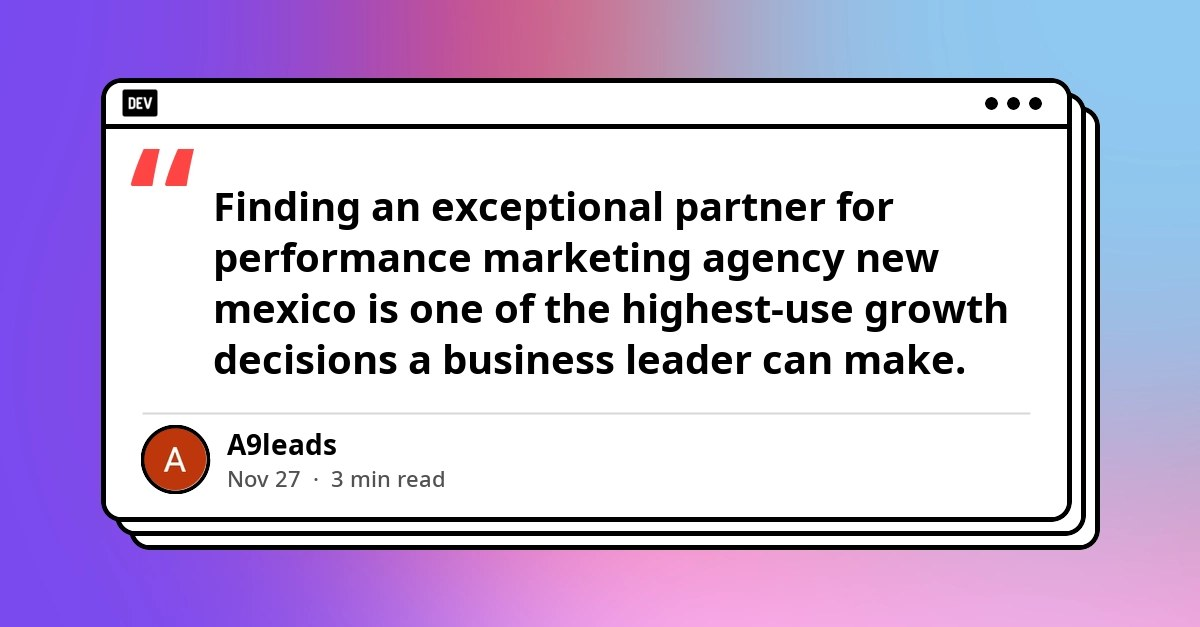
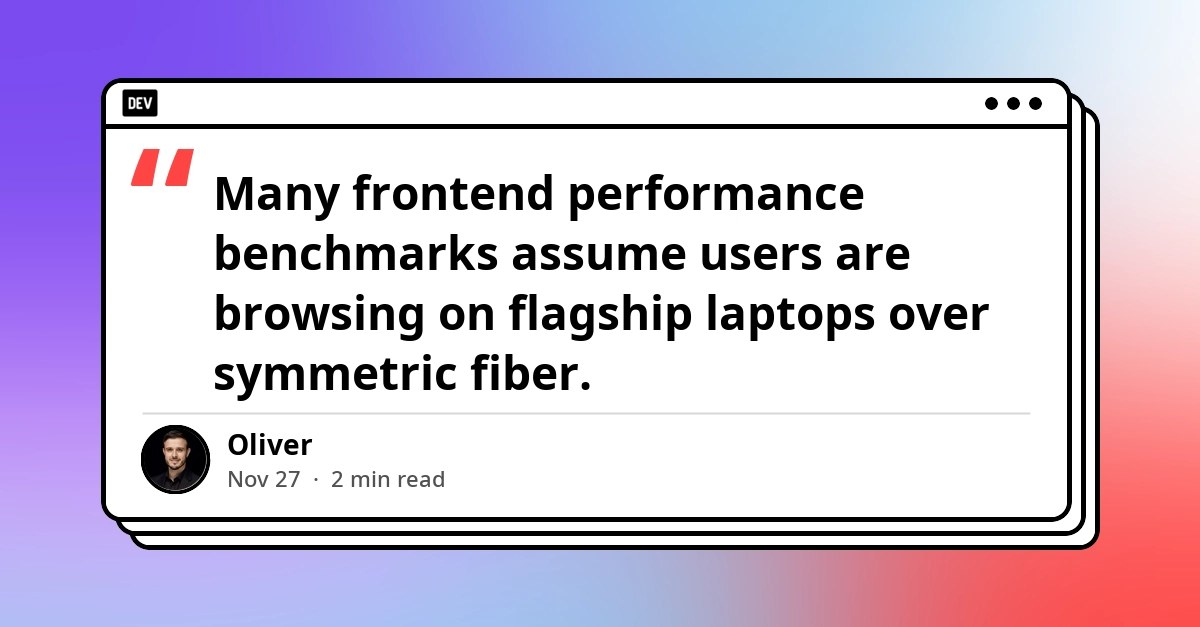
chore: generate LinkedIn draft

diff --git a/drafts/linkedin-post-2026-11-27.md b/drafts/linkedin-post-2026-11-27.md
@@ -2,26 +2,29 @@
 
 > One-topic daily draft. Verify the article, edit the opinion to match your own experience, and check image rights before publishing.
 
-**Niche:** Frontend Development
-**Topic:** Performance Marketing Agency New Mexico: How Analytix9 Engineers Profitable Revenue Scale
-**Published:** 2026-11-27T05:53:18+00:00
-**Source:** DEV — Web Development
-**Article:** https://dev.to/a9leads_1f0037dca685ef4af/performance-marketing-agency-new-mexico-how-analytix9-engineers-profitable-revenue-scale-2091
+**Niche:** Modern CSS & Styling
+**Topic:** Designing Accessible, Low-Bandwidth Search UIs in TypeScript and Modern CSS
+**Published:** 2026-11-27T09:40:59+00:00
+**Source:** DEV — CSS
+**Article:** https://dev.to/oliver9870/designing-accessible-low-bandwidth-search-uis-in-typescript-and-modern-css-411a
 
 ## Suggested post
 
-Performance Marketing Agency New Mexico: How Analytix9 Engineers Profitable Revenue Scale
+Designing Accessible, Low-Bandwidth Search UIs in TypeScript and Modern CSS
 
-Performance Marketing Agency New Mexico: How Analytix9 Engineers Profitable Revenue Scale Finding an exceptional partner for performance marketing agency new mexico is one of the highest-use growth decisions a business leader can make. Yet for most CEOs, CMOs, and e-commerce directors, past experiences with digital marketing agencies have been frustrating: pretty monthly PDF reports, rising costs per click, and an endless stream of excuses about "market saturation." At Analytix9 , we operate under a completely different standard. We don't view paid search as an ad-buying exercise—we run it as an engineering discipline where every dollar invested must directly produce measurable revenue, pipeline value, and gross profit. Why Most Campaigns Struggle with Performance Marketing Agency New Mexico When our senior media buyers conduct a diagnostic audit of accounts previously managed by generalist agencies, we consistently find the same three structural flaws: 1. Broad Match Bleed Without Defensive Negative Buffers Google's automated match algorithms are engineered to maximize ad spend volu
+Many frontend performance benchmarks assume users are browsing on flagship laptops over symmetric fiber. In reality, people searching for regional opportunities—such as listings on Canadian community and regional career portals —frequently rely on mid-tier mobile devices, screen readers, or throttled rural cellular connections
 
-Topic: Frontend Development.
+Topic: Modern CSS & Styling.
 
-What caught my attention is the specific idea in this article—not just the headline.
-I’d test or evaluate it against a real project before adopting it. What would you try first?
+The practical angle to look for:
+• What changed from the previous approach?
+• Where could it help, and what trade-off should you test?
 
-Read the original: https://dev.to/a9leads_1f0037dca685ef4af/performance-marketing-agency-new-mexico-how-analytix9-engineers-profitable-revenue-scale-2091
+Would you try this in a real project?
 
-#Frontend #WebDevelopment #JavaScript
+Source: https://dev.to/oliver9870/designing-accessible-low-bandwidth-search-uis-in-typescript-and-modern-css-411a
+
+#CSS #WebDesign #Frontend
 
 ## Custom article graphics
 
@@ -29,8 +32,17 @@ Read the original: https://dev.to/a9leads_1f0037dca685ef4af/performance-marketin
 
 Image file: drafts/images/2026-11-27-linkedin-card-1.jpg
 
-![Custom article graphic](images/2026-11-27-linkedin-card-2.jpg)
+> The headline is placed in a separate solid panel below the article image to prevent text overlap. This is a designed card, not AI-generated artwork.
 
-Image file: drafts/images/2026-11-27-linkedin-card-2.jpg
+## Original article images
 
-> These are designed editorial cards made from article imagery and its headline/context. They are not AI-generated illustrations. Confirm image reuse rights and attribution before posting.
+> Original images are included as references. Check publisher licensing and reuse rights before posting.
+
+![Original article image](images/2026-11-27-source-1.jpg)
+
+Source image: https://media2.dev.to/dynamic/image/width=1200,height=627,fit=cover,gravity=auto,format=auto/https%3A%2F%2Fdev-to-uploads.s3.us-east-2.amazonaws.com%2Fuploads%2Farticles%2Ff0pofgbr7lbsu2khdkfm.png
+
+![Original article image](images/2026-11-27-source-2.jpg)
+
+Source image: https://media2.dev.to/dynamic/image/quality=100/https://dev-to-uploads.s3.amazonaws.com/uploads/logos/resized_logo_UQww2soKuUsjaOGNB38o.png
+

diff --git a/drafts/linkedin-content-pack-2026-11-27.md b/drafts/linkedin-content-pack-2026-11-27.md
@@ -2,10 +2,10 @@
 
 One topic only. Niche and article are randomly selected from fresh, source-based candidates.
 
-**Selected niche:** Frontend Development
-**Selected topic:** Performance Marketing Agency New Mexico: How Analytix9 Engineers Profitable Revenue Scale
-**Source:** https://dev.to/a9leads_1f0037dca685ef4af/performance-marketing-agency-new-mexico-how-analytix9-engineers-profitable-revenue-scale-2091
+**Selected niche:** Modern CSS & Styling
+**Selected topic:** Designing Accessible, Low-Bandwidth Search UIs in TypeScript and Modern CSS
+**Source:** https://dev.to/oliver9870/designing-accessible-low-bandwidth-search-uis-in-typescript-and-modern-css-411a
 **Draft:** drafts/linkedin-post-2026-11-27.md
-**Custom graphics:** 2
+**Custom graphics:** 1
 
 > Selection uses recency and relevance signals, then randomizes among stronger candidates. It does not prove a topic is globally trending or viral.
